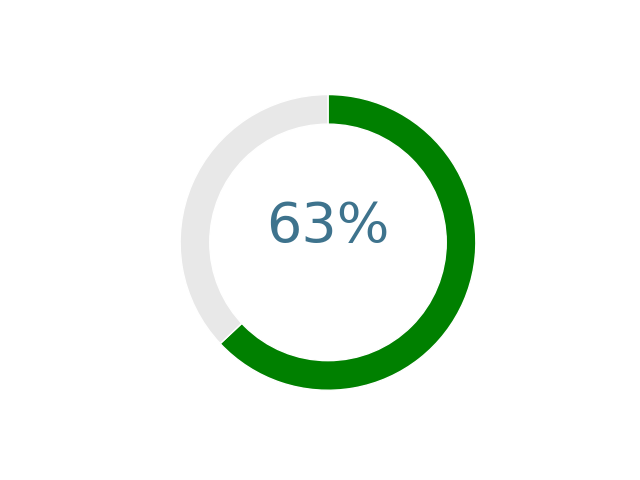
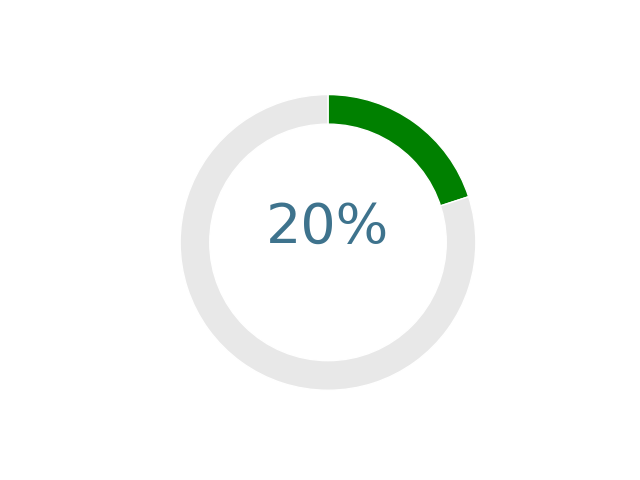
dashboard that works for Ludo's data

Changed region(s): [[0.3438, 0.4062, 0.75, 0.8125], [0.4062, 0.4062, 0.625, 0.5]]

diff --git a/garmin_automatic_reports/api2_get_garmin_data.py b/garmin_automatic_reports/api2_get_garmin_data.py
@@ -33,7 +33,6 @@ def get_garmin_data(user_id, date, api, url):
 # ----------------------------------------------------------------------------
 def request_data_from_servers(params, api, url):
 
-        
     # Perform the POST request authenticated with YOUR API key (NOT the one of
     # the sub-user!).
     reply = requests.get(url, headers={"X-API-Key": api}, params=params)
@@ -208,6 +207,12 @@ def add_sleep(date, user_id, datas, sleep_dict, api, url):
     sleep_dict["awake"] = value_dict[ 'awakeDurationInSeconds']
     sleep_dict["recorded_time"] = sleep_dict["deep"] + sleep_dict["light"] +\
                                   sleep_dict["rem"] + sleep_dict["awake"]
+    
+    if(sleep_dict["recorded_time"] > 0):
+        sleep_dict["percentage_deep"]   = int(round(sleep_dict["deep"]/sleep_dict["recorded_time"]*100))
+        sleep_dict["percentage_light"]  = int(round(sleep_dict["light"]/sleep_dict["recorded_time"]*100))
+        sleep_dict["percentage_rem"]    = int(round(sleep_dict["rem"]/sleep_dict["recorded_time"] *100))
+        sleep_dict["percentage_awake"]  = int(round(sleep_dict["awake"]/sleep_dict["recorded_time"] *100))
 
 def add_spo2(datas, spo2_dict):
     if datas_exist(datas, result_type = 'pulseox'):
@@ -429,6 +434,10 @@ def initialize_dictionary_with_template() -> dict :
         "rem" : None, 
         "score" : None,
         "timestamp_end" : None,
+        'percentage_deep' : 0,
+        'percentage_light' : 0,
+        'percentage_rem' : 0,
+        'percentage_awake' : 0,
     }
     spo2_dict = {
         "all_values" : None,

diff --git a/garmin_automatic_reports/api2_get_cst_data.py b/garmin_automatic_reports/api2_get_cst_data.py
@@ -162,11 +162,11 @@ def add_cardio(date, datas, cardio_dict):
 def add_breath(date, datas, breath_dict):
     rate = get_cst_result_info(date, datas, result_type='breath_2_brpm')
     rate_var = get_cst_result_info(date, datas, result_type='breath_2_brv')
-    # inspi_expi = get_cst_result_info_segment(date, datas, result_type='breath_2_inspi_over_expi') # TO CHANGE!!!
+    inspi_expi = get_cst_result_info_segment(date, datas, result_type='breath_2_inspi_over_expi') # TO CHANGE!!!
 
     breath_dict['rate'] = rate
     breath_dict['rate_var'] = rate_var
-    # breath_dict['inspi_expi'] = inspi_expi
+    breath_dict['inspi_expi'] = inspi_expi
 
 def add_activity(date, datas, activity_dict) : 
     averaged_activity = get_cst_result_info(date, datas, result_type='averaged_activity')
@@ -195,7 +195,7 @@ def add_activity_to_indicators(results_dict) -> dict:
     sig_indicators = results_dict["breath"]
     sig_indicators["rate"] = merge_on_times(sig_indicators["rate"], averaged_activity_df)
     sig_indicators["rate_var"] = merge_on_times(sig_indicators["rate_var"], averaged_activity_df)
-    # sig_indicators["inspi_expi"] = merge_on_times(sig_indicators["inspi_expi"], averaged_activity_df)
+    sig_indicators["inspi_expi"] = merge_on_times(sig_indicators["inspi_expi"], averaged_activity_df)
 
     return copy.deepcopy(results_dict)
 

diff --git a/data/data.py b/data/data.py
@@ -106,7 +106,6 @@ def get_sleep():
     
     output = {}
     output["values"]            = ""
-    output["score"]             = ""
     output["quality"]           = ""
     output["duration"]          = ""
     output["duration_deep"]     = ""
@@ -128,10 +127,10 @@ def get_sleep():
         output["duration_rem"]      = td_to_hhmm_str(datas["sleep"]["rem"])
         output["duration_awake"]    = td_to_hhmm_str(datas["sleep"]["awake"])
 
-        output["percentage_deep"]   = int(round(datas["sleep"]["deep"]/datas["sleep"]["recorded_time"]*100))
-        output["percentage_light"]  = int(round(datas["sleep"]["light"]/datas["sleep"]["recorded_time"]*100))
-        output["percentage_rem"]    = int(round(datas["sleep"]["rem"]/datas["sleep"]["recorded_time"]*100))
-        output["percentage_awake"]  = int(round(datas["sleep"]["awake"]/datas["sleep"]["recorded_time"]*100))
+        output["percentage_deep"]   = datas["sleep"]["percentage_deep"]
+        output["percentage_light"]  = datas["sleep"]["percentage_light"]
+        output["percentage_rem"]    = datas["sleep"]["percentage_rem"]
+        output["percentage_awake"]  = datas["sleep"]["percentage_awake"]
 
     return output
 

diff --git a/template/chart.py b/template/chart.py
@@ -639,17 +639,19 @@ def sleep_donut():
     translate   = st.session_state.translate
     sleep       = data.get_sleep()
     
-    score   = sleep["score"]
-    if sleep["score"] == "":
-        deep    = 25
-        light   = 25
-        rem     = 25
-        awake   = 25
-    else:
+    recoded_time   = sleep["duration"]
+    if recoded_time > 1:
         deep    = sleep["percentage_deep"]
         light   = sleep["percentage_light"]
         rem     = sleep["percentage_rem"]
         awake   = sleep["percentage_awake"]
+    else:
+        deep    = 25
+        light   = 25
+        rem     = 25
+        awake   = 25
+
+    score   = sleep["score"]
     quality = sleep["quality"]
     
     plt.rcParams['figure.facecolor'] = "white" #cycler(color="#F0F2F6")

diff --git a/garmin_automatic_reports/compute_commun_for_pdf.py b/garmin_automatic_reports/compute_commun_for_pdf.py
@@ -8,7 +8,7 @@ import copy
 import numpy as np
 import pandas as pd 
 from collections import deque
-from config import ACTIVITY_THREASHOLD
+from garmin_automatic_reports.config import ACTIVITY_THREASHOLD
 from datetime import datetime
 
 TEXT_FONT = "Helvetica"
